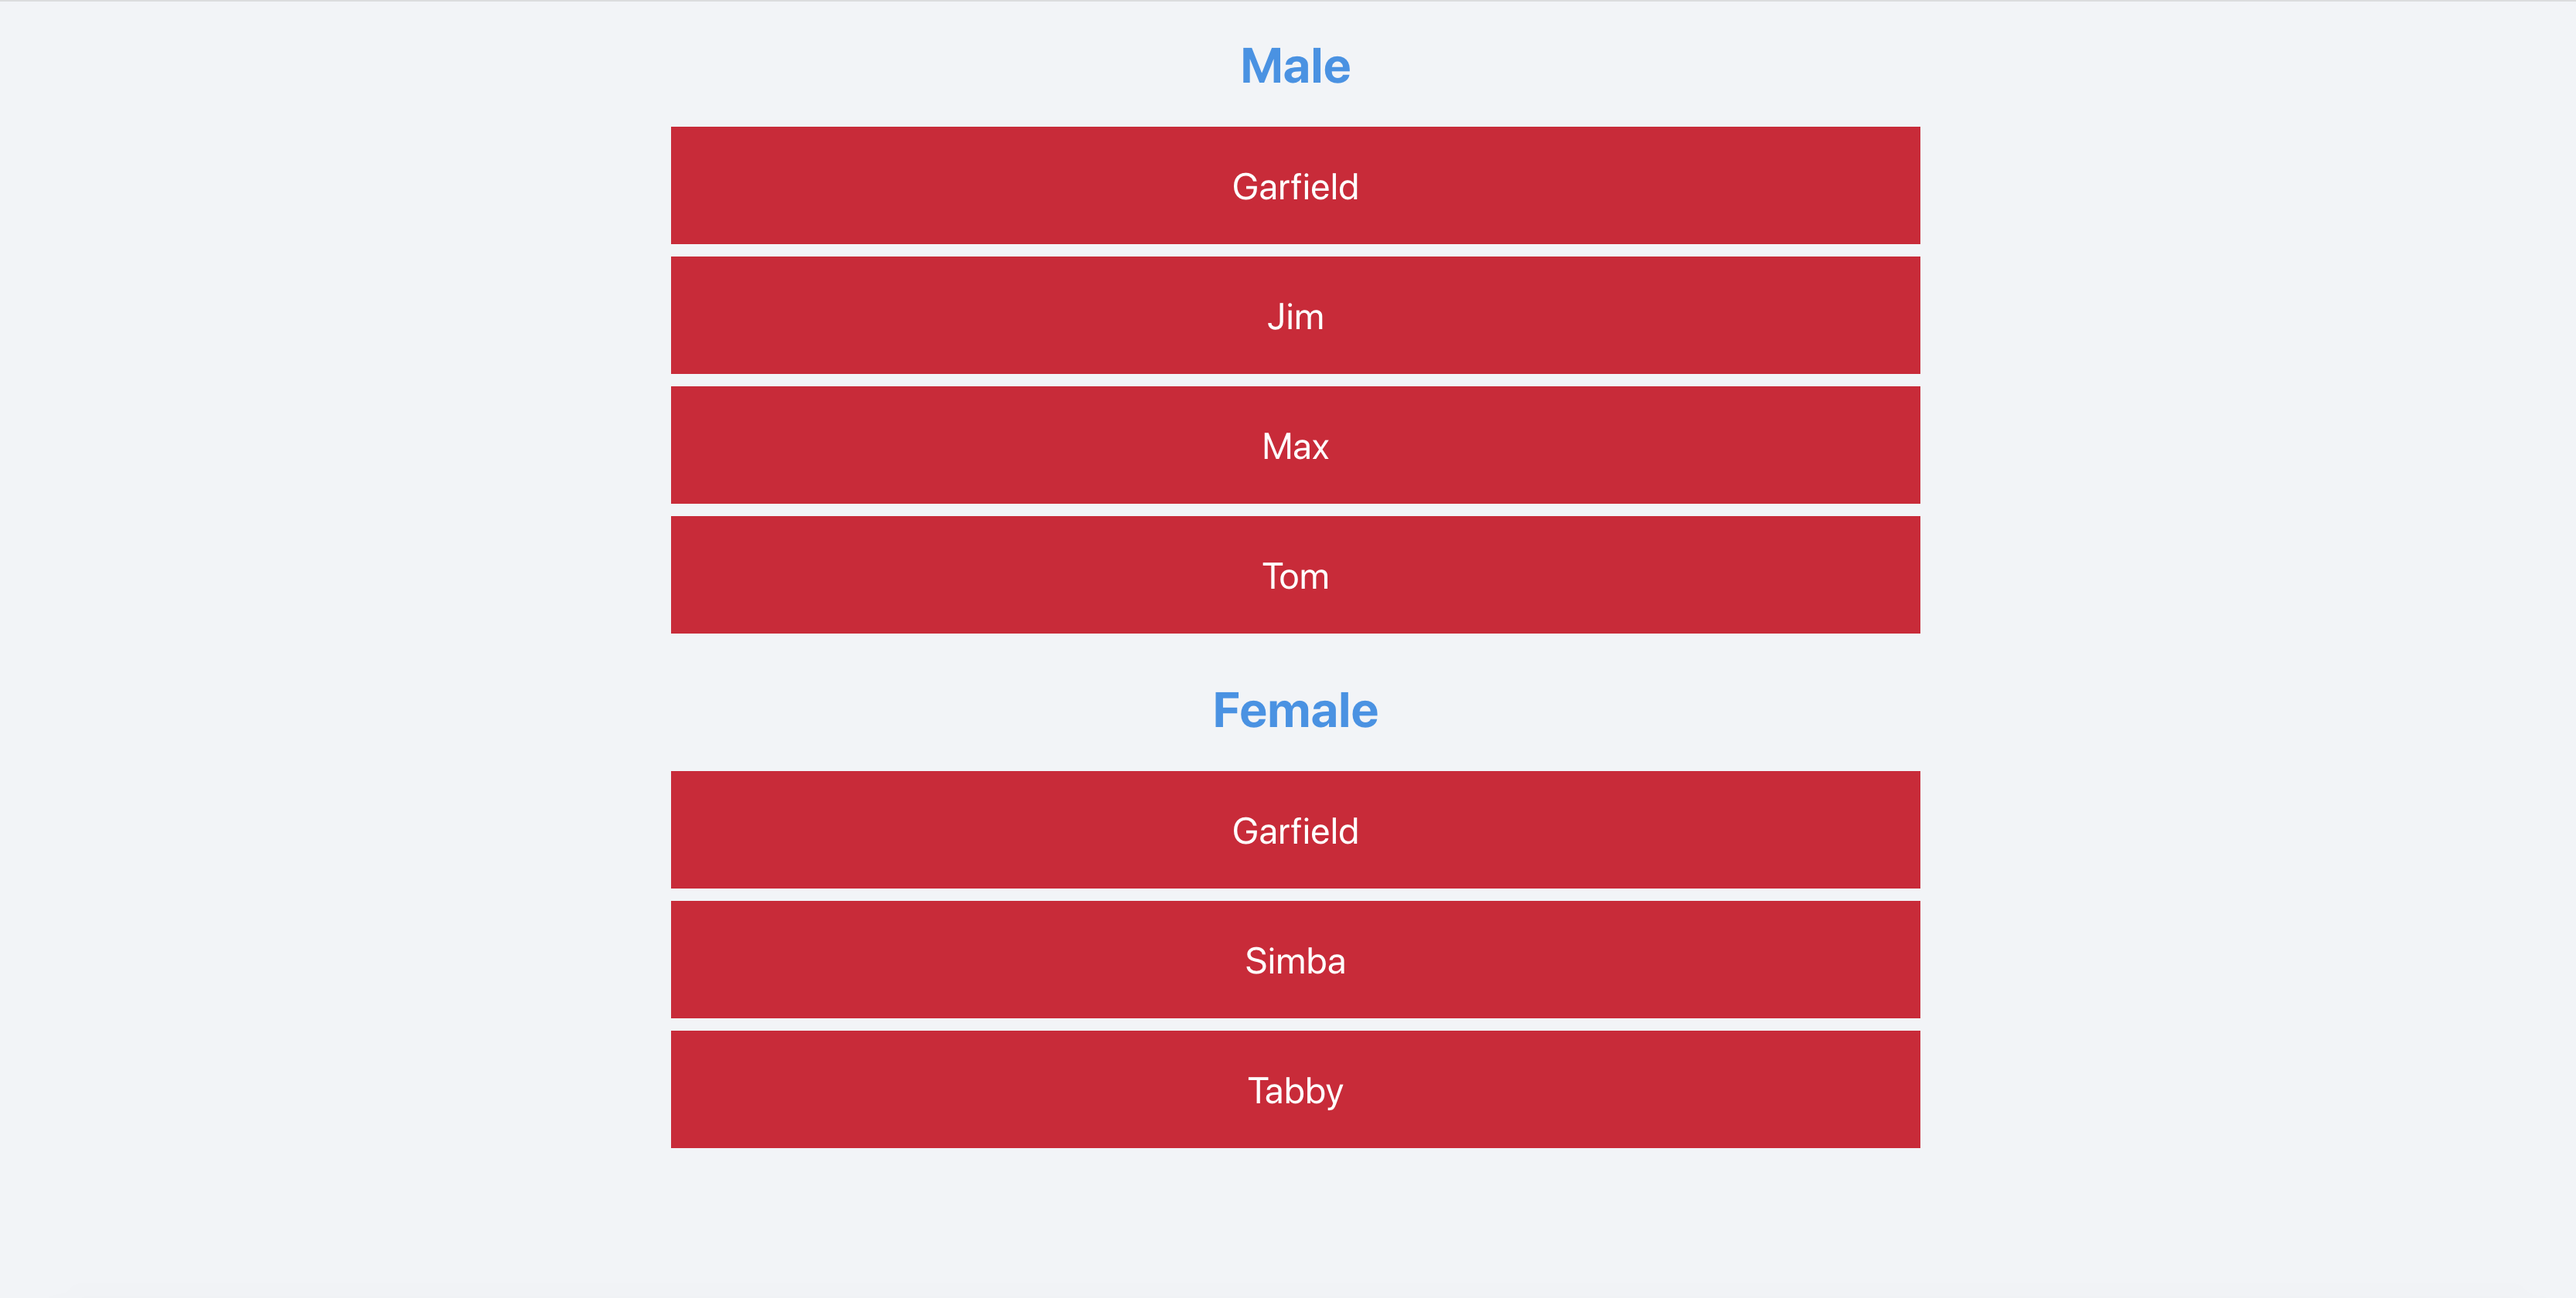
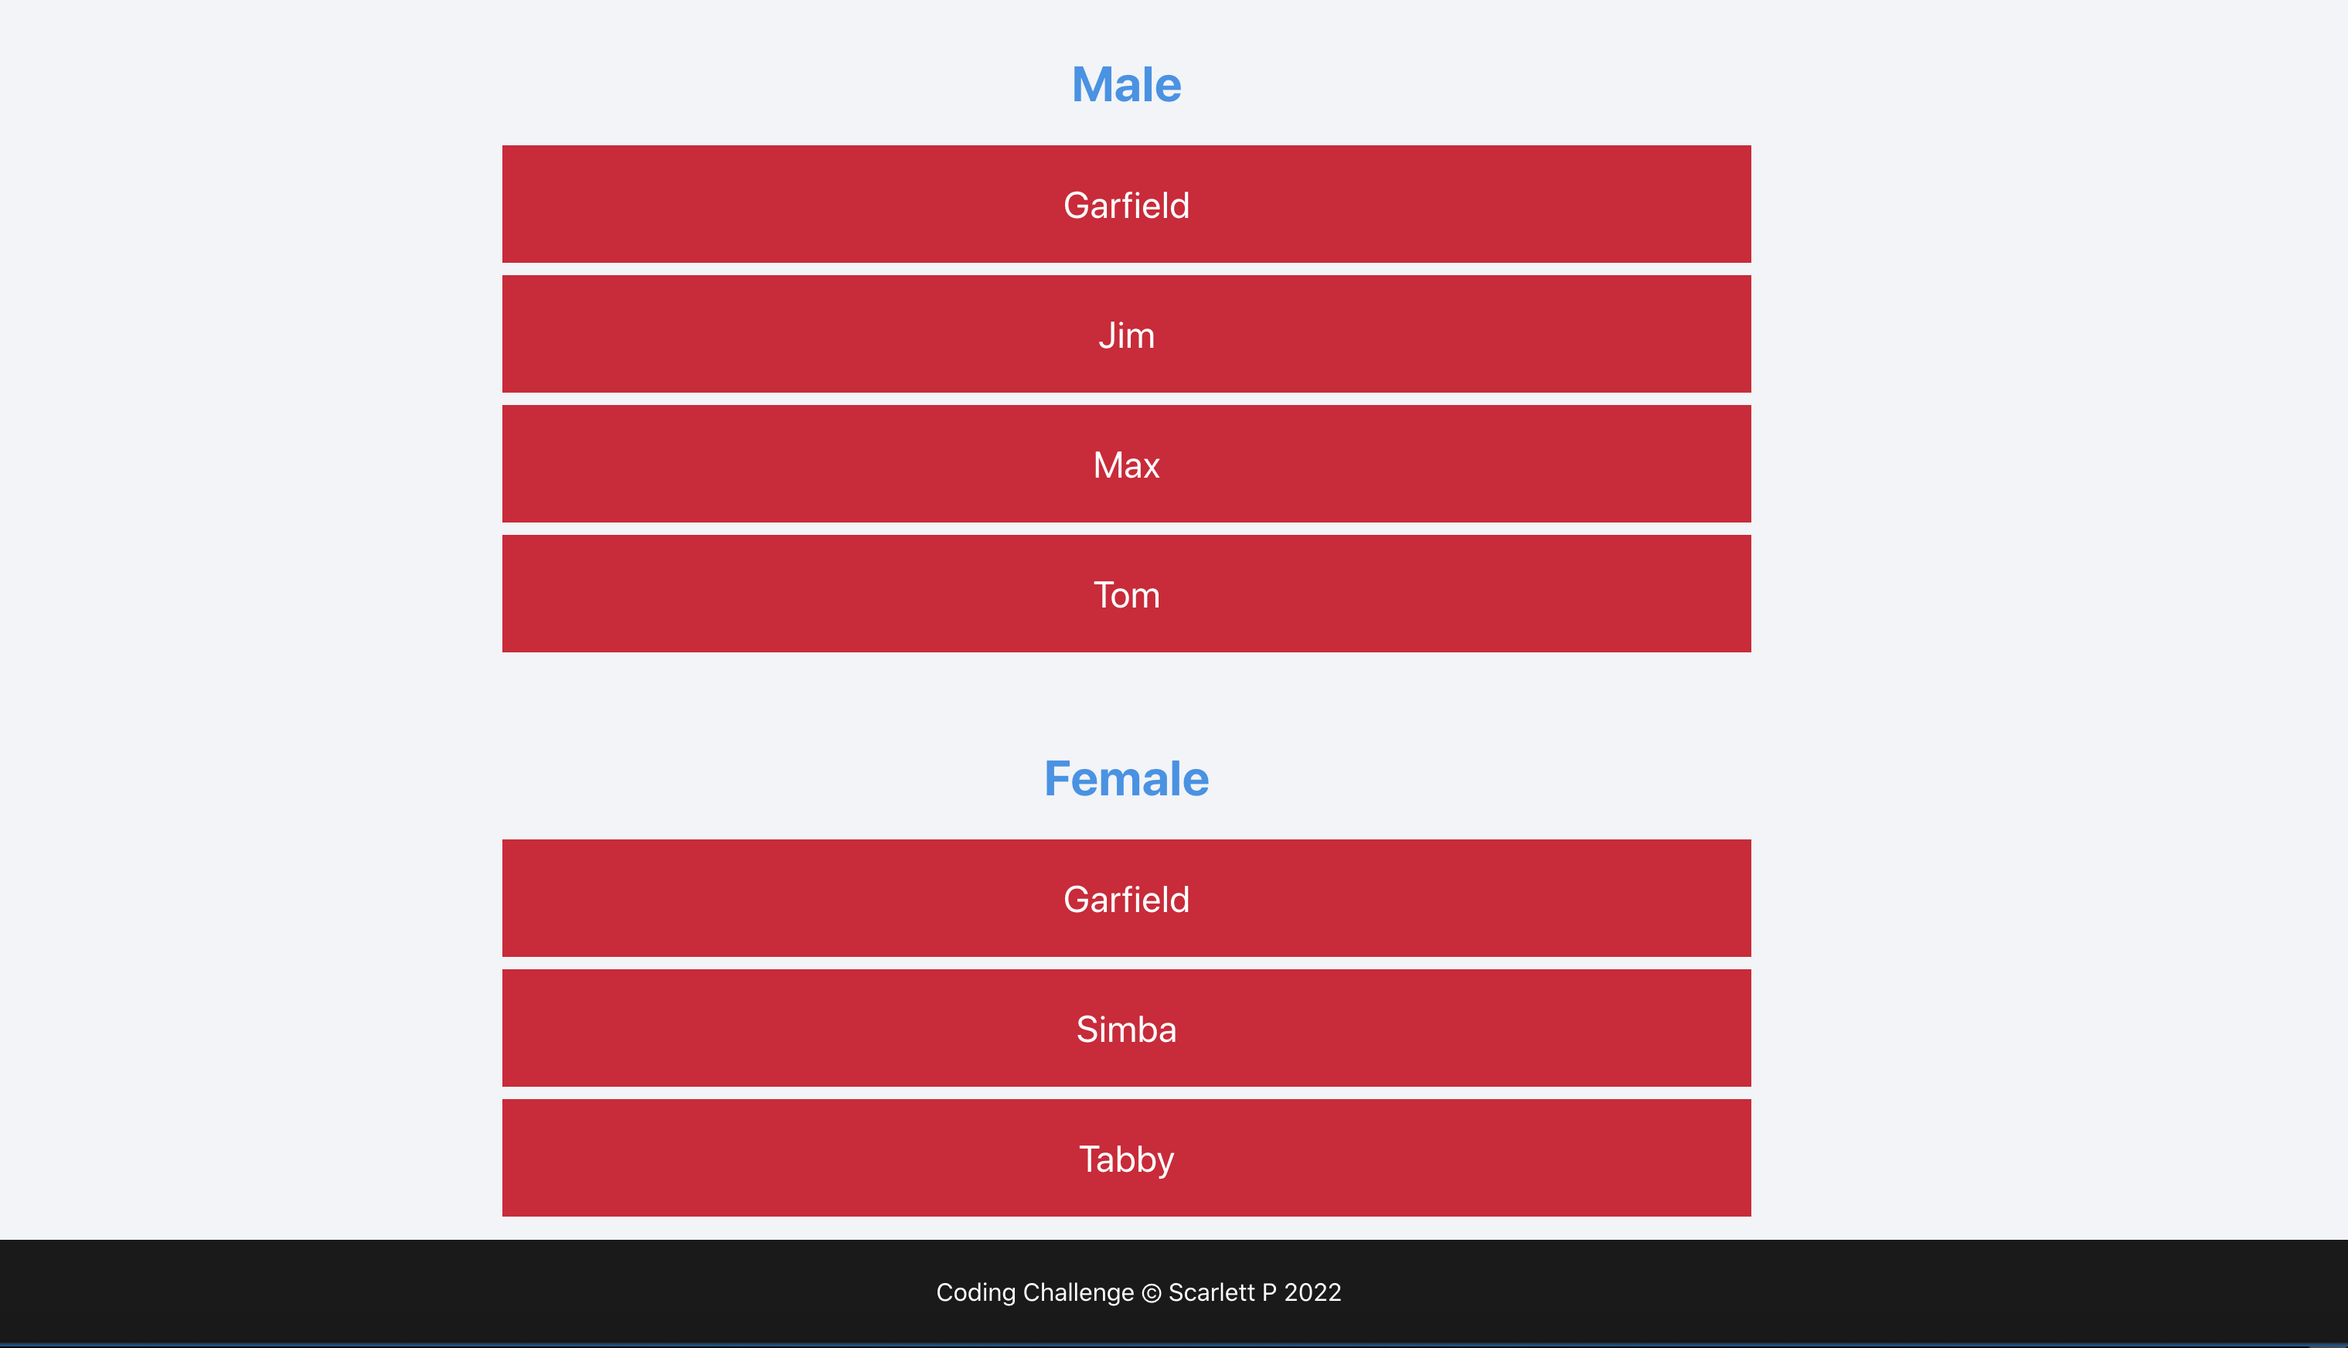
added footer

Changed region(s): [[0.0, 0.5262, 1.0, 1.0], [0.2166, 0.031, 0.7426, 0.4952], [0.4641, 0.3405, 0.526, 0.3714]]

diff --git a/src/ui/components/Footer.tsx b/src/ui/components/Footer.tsx
@@ -1,0 +1,19 @@
+import styled from 'styled-components'
+
+const FooterContainer = styled.div`
+    margin-top: 1rem;
+    padding: 0.5rem;
+    background-color: #1a1a1a;
+    position: fixed;
+    bottom: 0;
+    left: 0;
+    width: 100%;
+    color: #fff;
+`
+const Footer = () => (
+    <FooterContainer>
+        <p>Coding Challenge &copy; Scarlett P 2022</p>
+    </FooterContainer>
+)
+
+export default Footer

diff --git a/src/App.test.tsx b/src/App.test.tsx
@@ -2,8 +2,7 @@ import React from 'react'
 import { render, screen } from '@testing-library/react'
 import App from './App'
 
-test('renders learn react link', () => {
+test('renders footer', () => {
     render(<App />)
-    const linkElement = screen.getByText(/learn react/i)
-    expect(linkElement).toBeInTheDocument()
+    expect(screen.getByText('Coding Challenge', { exact: false })).toBeInTheDocument()
 })

diff --git a/src/ui/components/Footer.test.tsx b/src/ui/components/Footer.test.tsx
@@ -1,0 +1,9 @@
+import { render, screen } from '@testing-library/react'
+import Footer from './Footer'
+
+describe('Footer component', () => {
+    it('should render the component correctly', () => {
+        render(<Footer />)
+        expect(screen.getByText('Coding Challenge', { exact: false })).toBeInTheDocument()
+    })
+})

diff --git a/src/App.tsx b/src/App.tsx
@@ -1,10 +1,12 @@
 import './App.css'
+import Footer from './ui/components/Footer'
 import { CatListPage } from './ui/pages/CatListPage'
 
 function App() {
     return (
         <div className="App">
             <CatListPage />
+            <Footer />
         </div>
     )
 }
